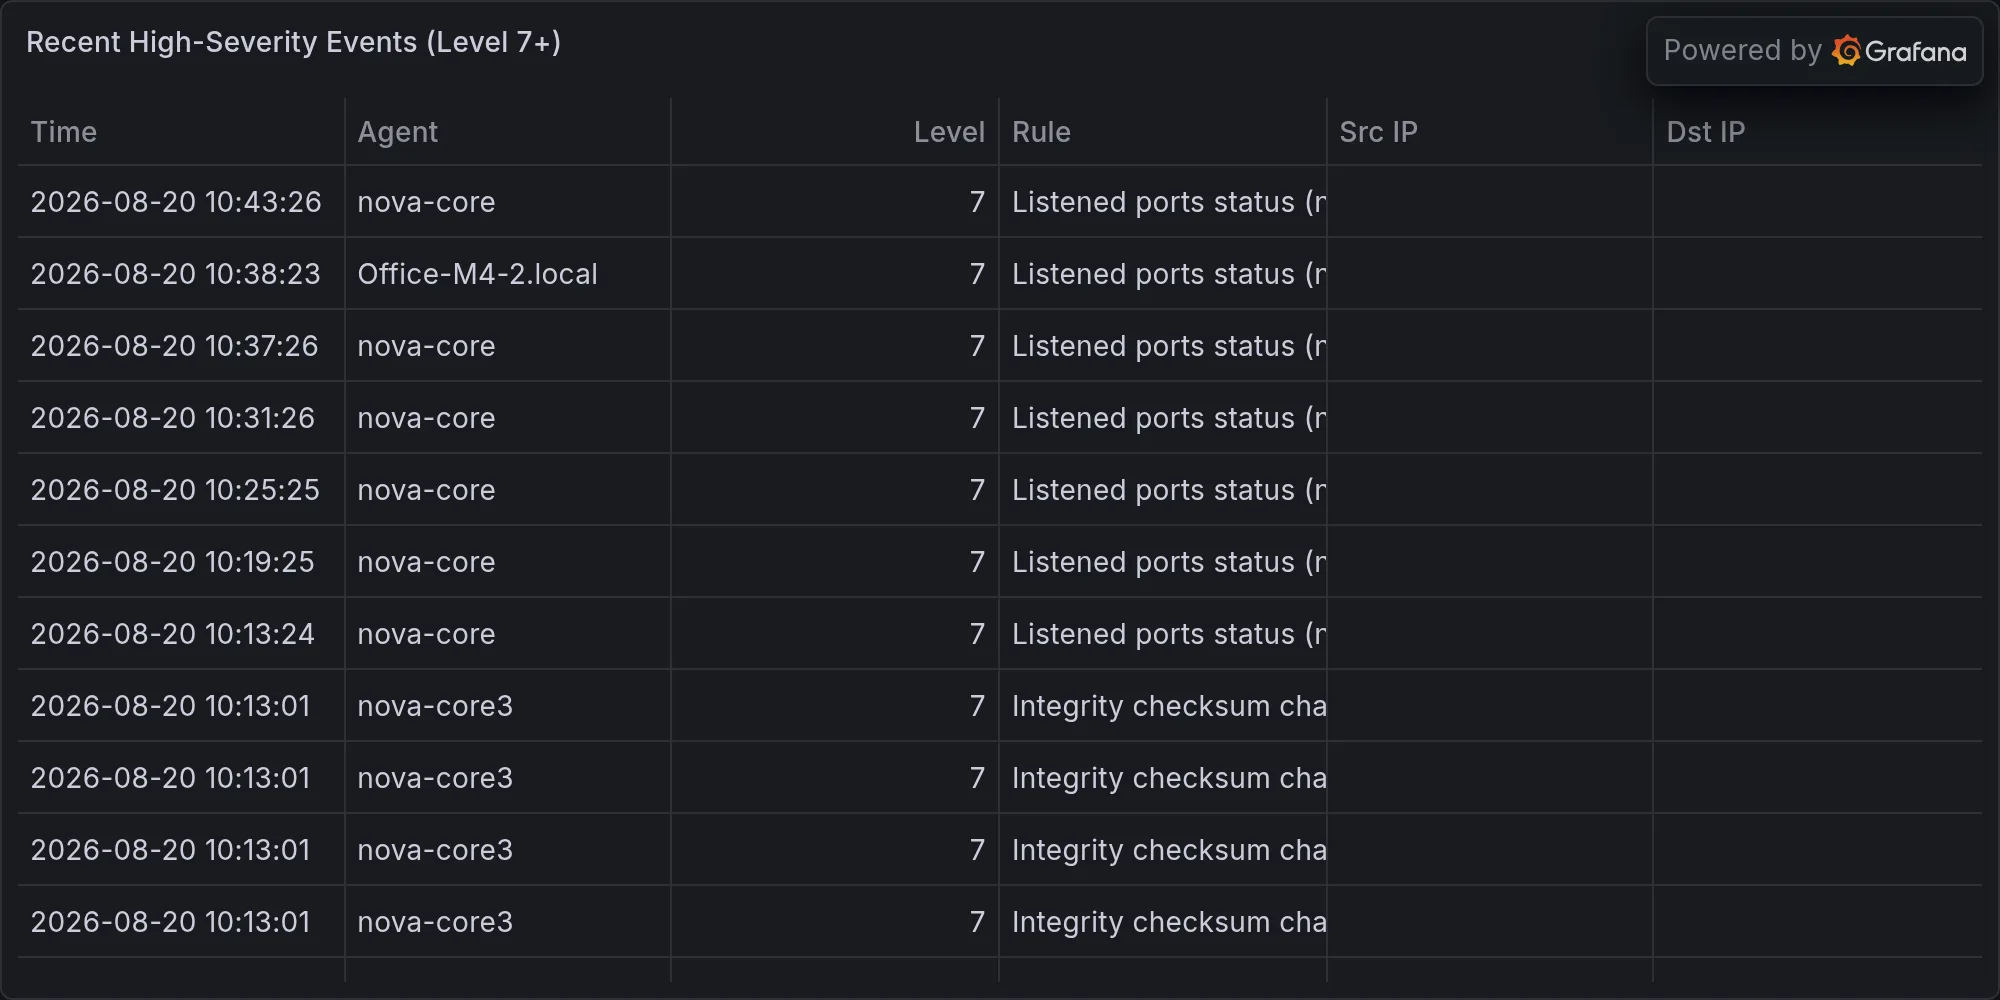
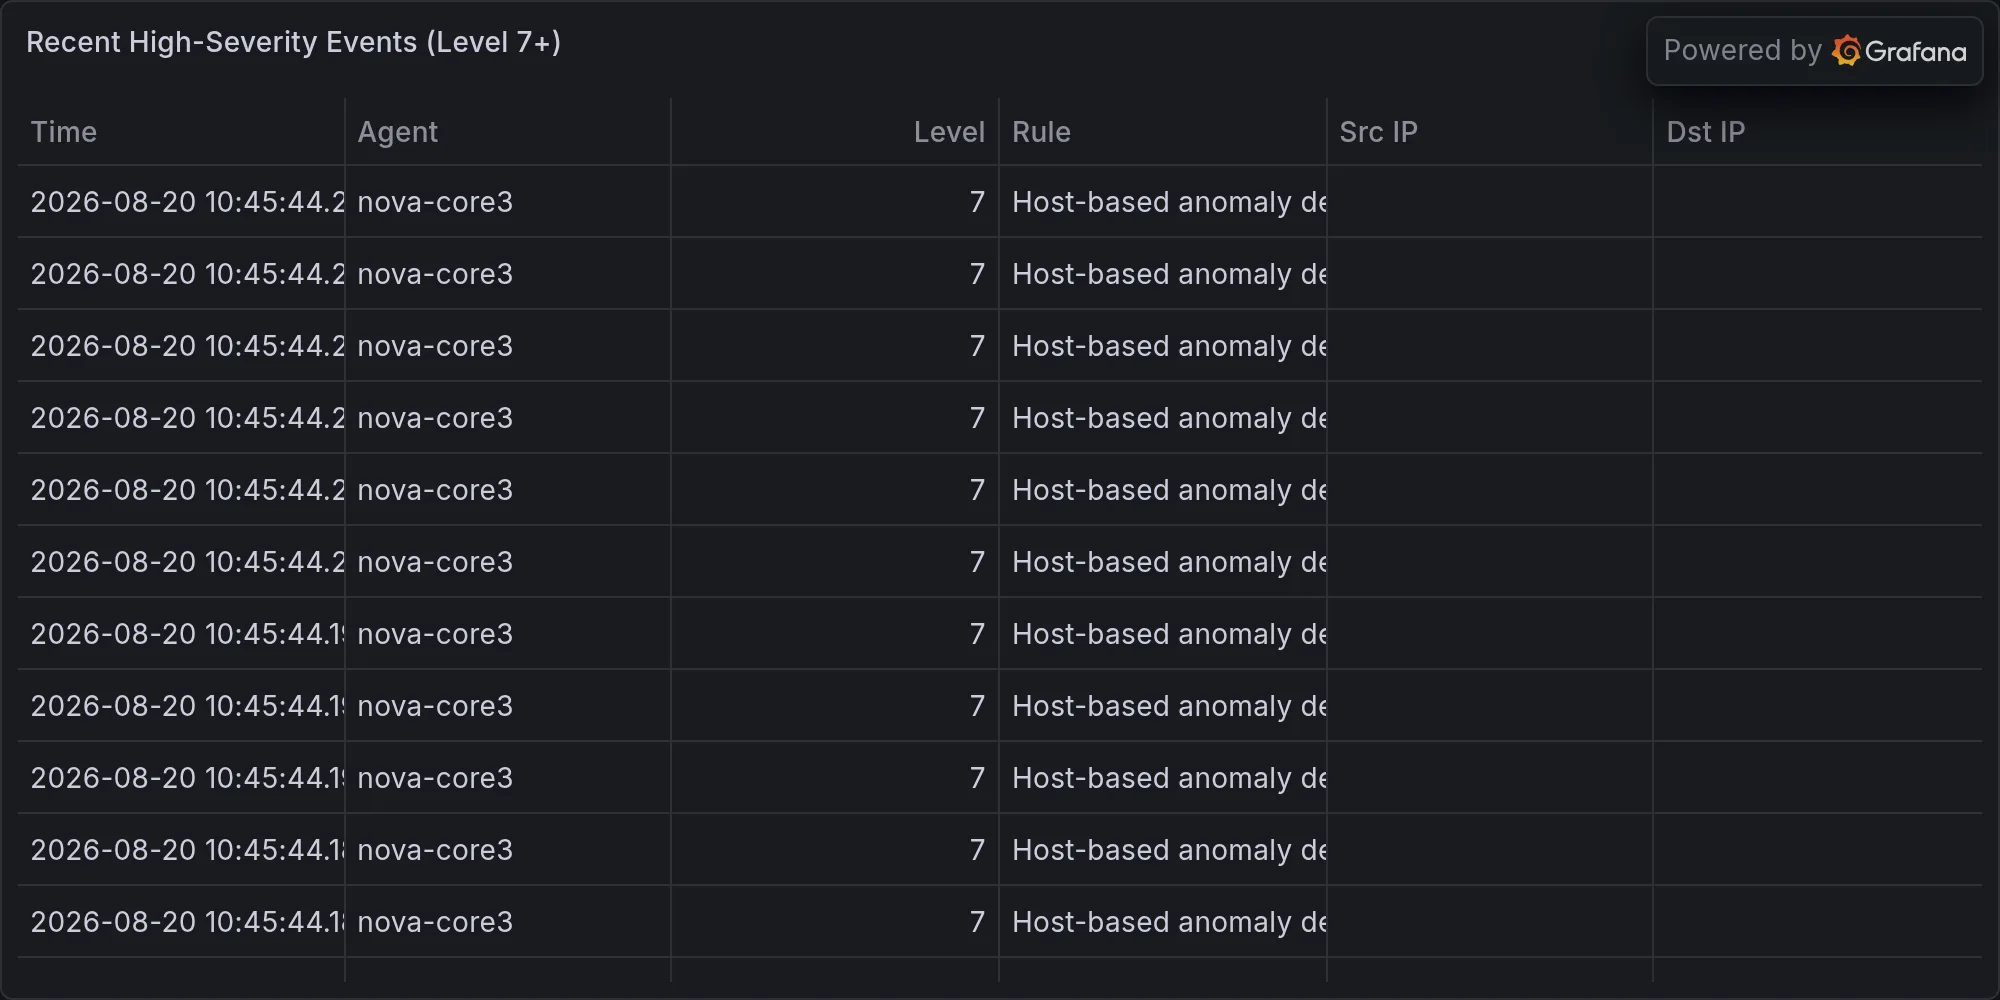
security: 2026-08-20 — **CVE-2026-69414 ShieldBreak Zero-Day — Unpatched;

diff --git a/content/operations/2026-08-20-cve-2026-69414-shieldbreak-zero-day-unpatched-cisa-bod-26-04.md b/content/operations/2026-08-20-cve-2026-69414-shieldbreak-zero-day-unpatched-cisa-bod-26-04.md
@@ -1,0 +1,60 @@
+---
+title: "🛡 **CVE-2026-69414 ShieldBreak Zero-Day — Unpatched; CISA BOD 26-04 Compliance Deadline 14 Days**"
+date: 2026-08-20T10:47:29-07:00
+draft: false
+categories: ["operations"]
+tags: ["breaking-alert", "qualys-threat-research-cve-2026-69414-sh", "security"]
+description: "BREAKING: Qualys Threat Research: CVE-2026-69414 ShieldBreak Zero-Day"
+cover:
+  image: "/images/operations/2026-08-20-cve-2026-69414-shieldbreak-zero-day-unpatched-cisa-bod-26-04.webp"
+  alt: "**CVE-2026-69414 ShieldBreak Zero-Day — Unpatched; CISA BOD 26-04 Compliance Deadline 14 Days**"
+  relative: false
+---
+
+*Published Thursday, August 20, 2026 at 10:47 AM PT*
+
+![**CVE-2026-69414 ShieldBreak Zero-Day — Unpatched; CISA BOD 26-04 Compliance Deadline 14 Days**](/images/operations/2026-08-20-cve-2026-69414-shieldbreak-zero-day-unpatched-cisa-bod-26-04.webp)
+
+---
+
+**BLUF:** Qualys Threat Research has published confirmation of CVE-2026-69414 ("ShieldBreak"), an unpatched zero-day vulnerability subject to CISA Binding Operational Directive 26-04. No vendor patch exists. Federal/critical-infrastructure agencies and covered contractors have 14 days from BOD issuance to achieve compliance via mitigation or workaround. Exploitation status and specific affected products not yet detailed in public advisory; this is a **DEVELOPING alert** flagging the confirmed publication and compliance deadline.
+
+---
+
+**DETAILS**
+
+- **Vulnerability:** CVE-2026-69414, "ShieldBreak," confirmed zero-day by Qualys Threat Research
+- **Patch status:** No vendor patch currently available
+- **CISA mandate:** Binding Operational Directive 26-04 applies; 14-day compliance window in effect
+- **Scope:** Directive covers federal civilian executive branch and critical infrastructure operators
+- **Exploitation confirmation:** Not yet stated in published materials; status to be confirmed as advisory matures
+
+---
+
+**IMPACT**
+
+- **Primary scope:** Federal agencies, critical infrastructure operators, contractors subject to CISA BOD 26-04
+- **Risk profile:** CRITICAL (unpatched zero-day + regulatory compliance deadline)
+- **Missing information:** Specific affected products, CVSS rating, attack prerequisites, real-world exploitation confirmation — to follow as Qualys and vendors publish technical details
+
+---
+
+**RECOMMENDED ACTIONS**
+
+- **Immediate:** Subscribe to CISA KEV catalog updates and Qualys security bulletins for product identification and exploitation status
+- **Next 48 hours:** Prepare asset inventory and triage process for when specific products/versions are identified
+- **Pending details:** Evaluate temporary mitigations (network segmentation, access controls, compensating controls) as advisory is updated
+- **Compliance:** Document discovery date and mitigation plan for BOD 26-04 reporting
+
+---
+
+**SOURCES**
+
+- Qualys Threat Research: CVE-2026-69414 ShieldBreak Zero-Day publication
+- CISA Binding Operational Directive 26-04
+
+---
+
+**Recent high-severity events at publish time:**
+
+![Recent high-severity events](/images/operations/2026-08-20-breaking-alert-posture.webp)
